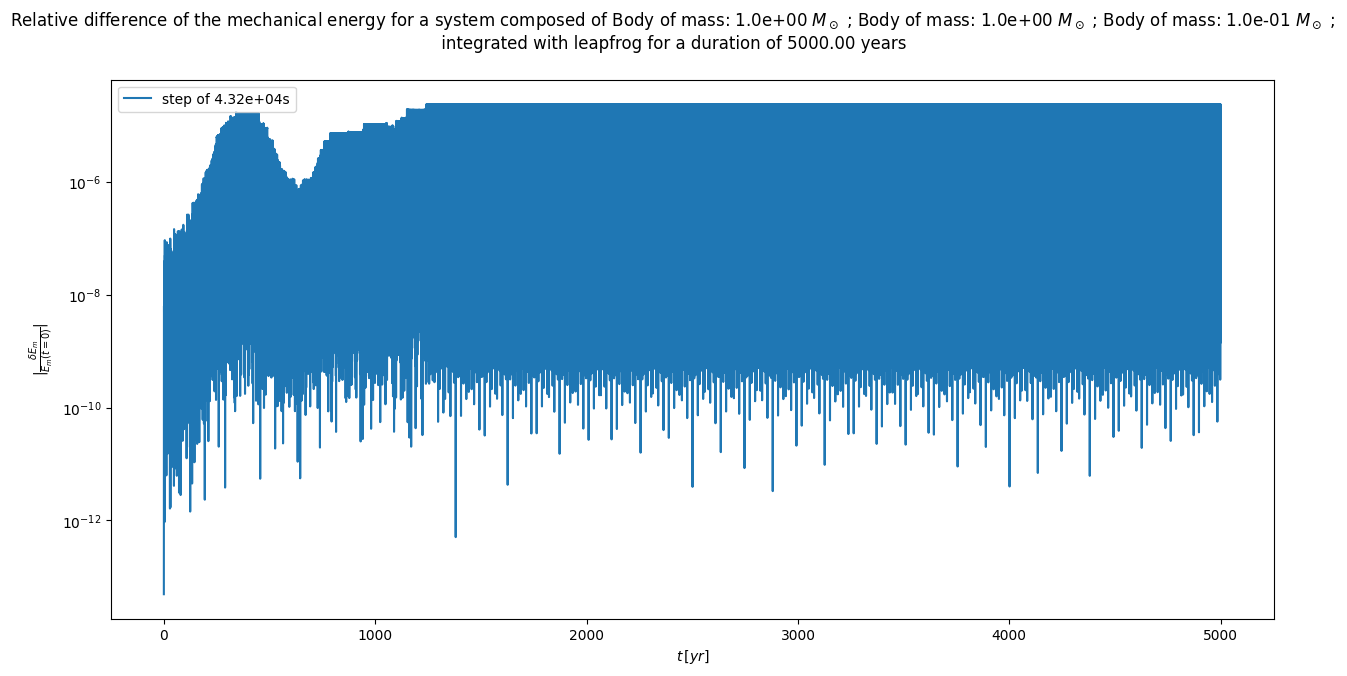
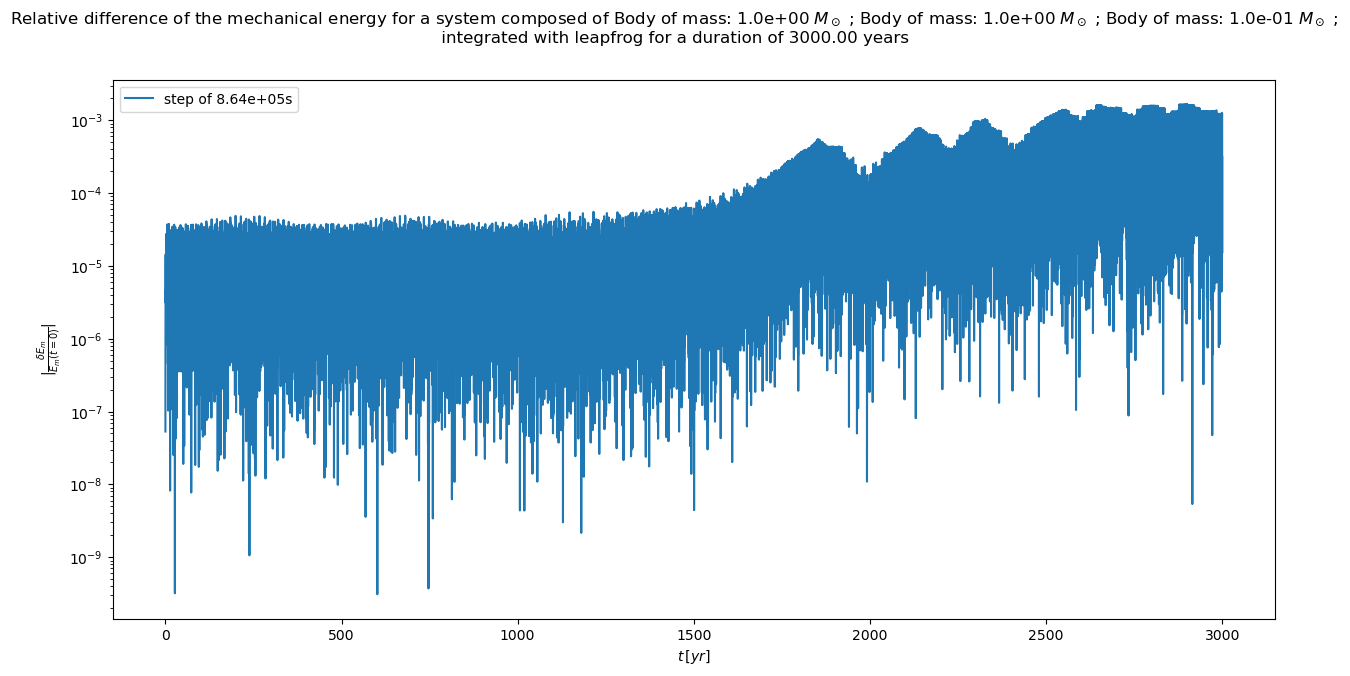
phi change

diff --git a/lib/objects.py b/lib/objects.py
@@ -186,6 +186,7 @@ class System(Body):
     def eccCOM(self): #exentricity of two body sub system
         if len(self.bodylist) == 2 :
             ecc = (2.*self.ECOM*(np.linalg.norm(self.LCOM)**2))/(Ga**2*self.M**2*self.mu**3) + 1.
+
         else :
             ecc = np.nan
         return ecc
@@ -215,13 +216,15 @@ class System(Body):
         return sma
 
     @property
-    def phi(self): #return angle in degree between plans formed by body1 and body2 (perurbator) trajectories
+    def phi(self): #return angle in degree between plans formed by perturbator plan and reference plan
         if len(self.bodylist) == 3 :
             body1 = self.bodylist[0]
             body2 = self.bodylist[2]
-            n1 = np.cross(body1.q, body1.v)
-            n2 = np.cross(body2.q, body2.v)
+            n1 = np.cross(body1.q-self.COM, body1.v-self.COMV)
+            n2 = np.cross(body2.q-self.COM, body2.v-self.COMV)
+            n1 = np.array([0., 0., 1.], dtype=np.longdouble)
             phi = np.arccos(np.dot(n1, n2) / (np.linalg.norm(n1) * np.linalg.norm(n2)))*180./np.pi
         else :
             phi = np.nan
         return phi
+

diff --git a/main.py b/main.py
@@ -12,7 +12,7 @@ from lib.units import *
 def main():
     #initialisation
     m = np.array([1., 1., 1e-1],dtype=np.longdouble)*Ms#/Ms  # Masses in Solar mass
-    a = np.array([1., 1., 5.5],dtype=np.longdouble)*au#/au   # Semi-major axis in astronomical units
+    a = np.array([.75, .75, 5.],dtype=np.longdouble)*au#/au   # Semi-major axis in astronomical units
     e = np.array([0., 0., 0.25],dtype=np.longdouble)   # Eccentricity
     psi = np.array([0., 0., 80.],dtype=np.longdouble)*np.pi/180.    # Inclination of the orbital plane in degrees
 
@@ -27,7 +27,7 @@ def main():
     v = np.array([v1, v2, v3],dtype=np.longdouble)
 
     #integration parameters
-    duration, step = 5000*yr, np.longdouble(1./2.*86400.) #integration time and step in seconds
+    duration, step = 1000*yr, np.longdouble(1./2.*86400.) #integration time and step in seconds
     integrator = "leapfrog"
     n_bodies = 3
     display = False
